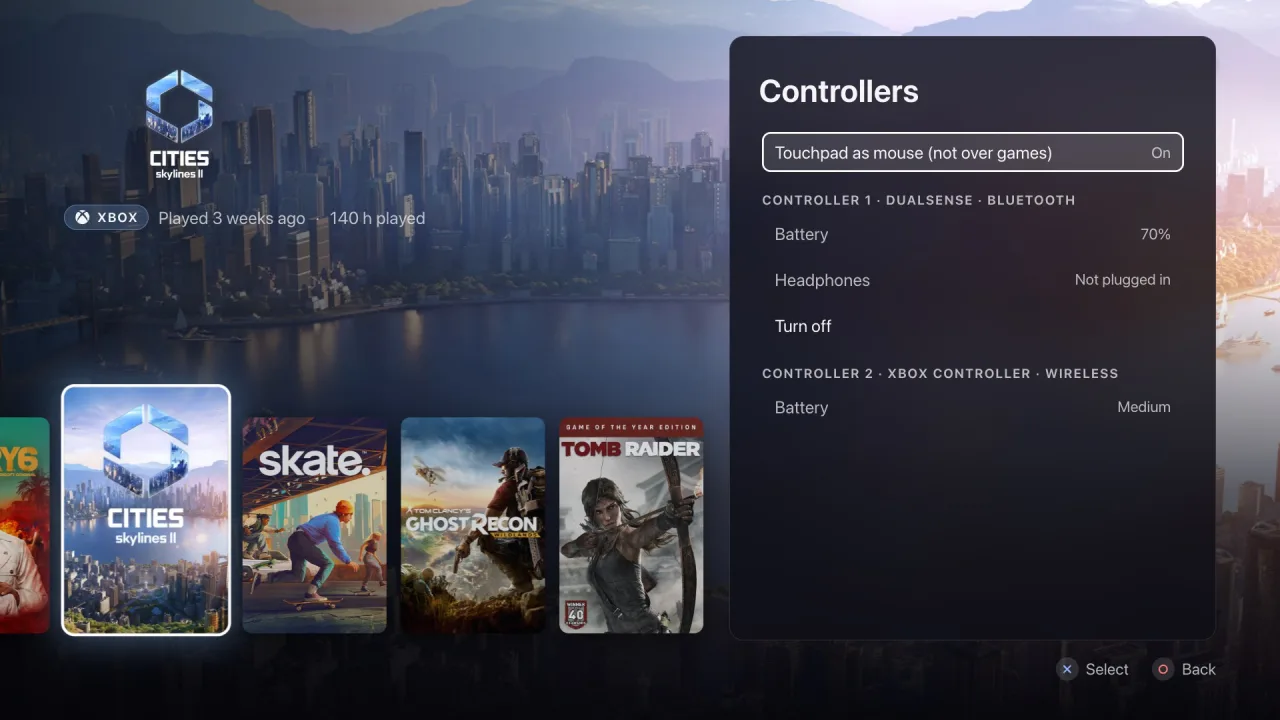
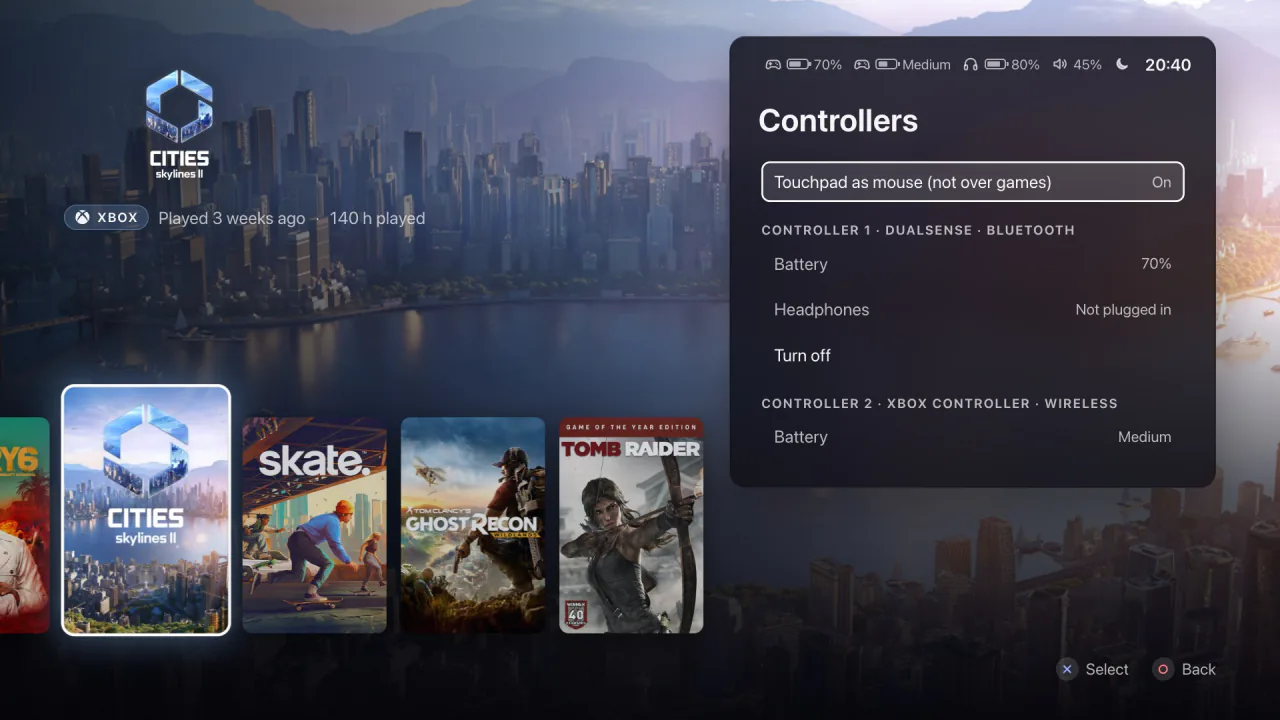
Screenshots and landing page for 0.3.0
The README's screenshots are taken again from the new home screen, with the
dock over a game and the screensaver's Gallery added. The landing page lists
the ten stores, and gains the game menu, the dock and the screensaver.

diff --git a/site/index.html b/site/index.html
@@ -4,7 +4,7 @@
   <meta charset="utf-8">
   <meta name="viewport" content="width=device-width, initial-scale=1">
   <title>Lamplit: a console-style home screen for Windows PCs on the TV</title>
-  <meta name="description" content="Lamplit is a free home screen for the gaming PC under your TV. Every installed game from Steam, Epic, GOG, the EA app, Ubisoft Connect, Rockstar and the Xbox app in one row, played with a DualSense, an Xbox controller or another pad.">
+  <meta name="description" content="Lamplit is a free home screen for the gaming PC under your TV. Every installed game from Steam, Epic, GOG, the EA app, Ubisoft Connect, Rockstar, Battle.net, the Amazon Games app, itch.io and the Xbox app in one row, played with a DualSense, an Xbox controller or another pad.">
   <meta name="theme-color" content="#07060B">
   <meta name="color-scheme" content="dark">
 
@@ -31,7 +31,8 @@
 </head>
 <body>
   <!-- Store logos: Simple Icons (CC0, simpleicons.org); Xbox from Material Design Icons (Apache 2.0,
-       pictogrammers.com), since Simple Icons no longer has it. -->
+       pictogrammers.com), since Simple Icons no longer has it. Neither has Amazon's, so the Amazon Games app has a
+       plain bag. -->
   <svg class="sprite" aria-hidden="true" focusable="false">
     <symbol id="store-steam" viewBox="0 0 24 24"><path d="M11.979 0C5.678 0 .511 4.86.022 11.037l6.432 2.658c.545-.371 1.203-.59 1.912-.59.063 0 .125.004.188.006l2.861-4.142V8.91c0-2.495 2.028-4.524 4.524-4.524 2.494 0 4.524 2.031 4.524 4.527s-2.03 4.525-4.524 4.525h-.105l-4.076 2.911c0 .052.004.105.004.159 0 1.875-1.515 3.396-3.39 3.396-1.635 0-3.016-1.173-3.331-2.727L.436 15.27C1.862 20.307 6.486 24 11.979 24c6.627 0 11.999-5.373 11.999-12S18.605 0 11.979 0zM7.54 18.21l-1.473-.61c.262.543.714.999 1.314 1.25 1.297.539 2.793-.076 3.332-1.375.263-.63.264-1.319.005-1.949s-.75-1.121-1.377-1.383c-.624-.26-1.29-.249-1.878-.03l1.523.63c.956.4 1.409 1.5 1.009 2.455-.397.957-1.497 1.41-2.454 1.012H7.54zm11.415-9.303c0-1.662-1.353-3.015-3.015-3.015-1.665 0-3.015 1.353-3.015 3.015 0 1.665 1.35 3.015 3.015 3.015 1.663 0 3.015-1.35 3.015-3.015zm-5.273-.005c0-1.252 1.013-2.266 2.265-2.266 1.249 0 2.266 1.014 2.266 2.266 0 1.251-1.017 2.265-2.266 2.265-1.253 0-2.265-1.014-2.265-2.265z"/></symbol>
     <symbol id="store-epic" viewBox="0 0 24 24"><path d="M3.537 0C2.165 0 1.66.506 1.66 1.879V18.44a4.262 4.262 0 00.02.433c.031.3.037.59.316.92.027.033.311.245.311.245.153.075.258.13.43.2l8.335 3.491c.433.199.614.276.928.27h.002c.314.006.495-.071.928-.27l8.335-3.492c.172-.07.277-.124.43-.2 0 0 .284-.211.311-.243.28-.33.285-.621.316-.92a4.261 4.261 0 00.02-.434V1.879c0-1.373-.506-1.88-1.878-1.88zm13.366 3.11h.68c1.138 0 1.688.553 1.688 1.696v1.88h-1.374v-1.8c0-.369-.17-.54-.523-.54h-.235c-.367 0-.537.17-.537.539v5.81c0 .369.17.54.537.54h.262c.353 0 .523-.171.523-.54V8.619h1.373v2.143c0 1.144-.562 1.71-1.7 1.71h-.694c-1.138 0-1.7-.566-1.7-1.71V4.82c0-1.144.562-1.709 1.7-1.709zm-12.186.08h3.114v1.274H6.117v2.603h1.648v1.275H6.117v2.774h1.74v1.275h-3.14zm3.816 0h2.198c1.138 0 1.7.564 1.7 1.708v2.445c0 1.144-.562 1.71-1.7 1.71h-.799v3.338h-1.4zm4.53 0h1.4v9.201h-1.4zm-3.13 1.235v3.392h.575c.354 0 .523-.171.523-.54V4.965c0-.368-.17-.54-.523-.54zm-3.74 10.147a1.708 1.708 0 01.591.108 1.745 1.745 0 01.49.299l-.452.546a1.247 1.247 0 00-.308-.195.91.91 0 00-.363-.068.658.658 0 00-.28.06.703.703 0 00-.224.163.783.783 0 00-.151.243.799.799 0 00-.056.299v.008a.852.852 0 00.056.31.7.7 0 00.157.245.736.736 0 00.238.16.774.774 0 00.303.058.79.79 0 00.445-.116v-.339h-.548v-.565H7.37v1.255a2.019 2.019 0 01-.524.307 1.789 1.789 0 01-.683.123 1.642 1.642 0 01-.602-.107 1.46 1.46 0 01-.478-.3 1.371 1.371 0 01-.318-.455 1.438 1.438 0 01-.115-.58v-.008a1.426 1.426 0 01.113-.57 1.449 1.449 0 01.312-.46 1.418 1.418 0 01.474-.309 1.58 1.58 0 01.598-.111 1.708 1.708 0 01.045 0zm11.963.008a2.006 2.006 0 01.612.094 1.61 1.61 0 01.507.277l-.386.546a1.562 1.562 0 00-.39-.205 1.178 1.178 0 00-.388-.07.347.347 0 00-.208.052.154.154 0 00-.07.127v.008a.158.158 0 00.022.084.198.198 0 00.076.066.831.831 0 00.147.06c.062.02.14.04.236.061a3.389 3.389 0 01.43.122 1.292 1.292 0 01.328.17.678.678 0 01.207.24.739.739 0 01.071.337v.008a.865.865 0 01-.081.382.82.82 0 01-.229.285 1.032 1.032 0 01-.353.18 1.606 1.606 0 01-.46.061 2.16 2.16 0 01-.71-.116 1.718 1.718 0 01-.593-.346l.43-.514c.277.223.578.335.9.335a.457.457 0 00.236-.05.157.157 0 00.082-.142v-.008a.15.15 0 00-.02-.077.204.204 0 00-.073-.066.753.753 0 00-.143-.062 2.45 2.45 0 00-.233-.062 5.036 5.036 0 01-.413-.113 1.26 1.26 0 01-.331-.16.72.72 0 01-.222-.243.73.73 0 01-.082-.36v-.008a.863.863 0 01.074-.359.794.794 0 01.214-.283 1.007 1.007 0 01.34-.185 1.423 1.423 0 01.448-.066 2.006 2.006 0 01.025 0zm-9.358.025h.742l1.183 2.81h-.825l-.203-.499H8.623l-.198.498h-.81zm2.197.02h.814l.663 1.08.663-1.08h.814v2.79h-.766v-1.602l-.711 1.091h-.016l-.707-1.083v1.593h-.754zm3.469 0h2.235v.658h-1.473v.422h1.334v.61h-1.334v.442h1.493v.658h-2.255zm-5.3.897l-.315.793h.624zm-1.145 5.19h8.014l-4.09 1.348z"/></symbol>
@@ -39,6 +40,8 @@
     <symbol id="store-ea" viewBox="0 0 24 24"><path d="M16.635 6.162l-5.928 9.377H4.24l1.508-2.3h4.024l1.474-2.335H2.264L.79 13.239h2.156L0 17.84h12.072l4.563-7.259 1.652 2.66h-1.401l-1.473 2.299h4.347l1.473 2.3H24zm-11.461.107L3.7 8.604l9.52-.035 1.474-2.3z"/></symbol>
     <symbol id="store-ubisoft" viewBox="0 0 24 24"><path d="M23.561 11.988C23.301-.304 6.954-4.89.656 6.634c.282.206.661.477.943.672a11.747 11.747 0 00-.976 3.067 11.885 11.885 0 00-.184 2.071C.439 18.818 5.621 24 12.005 24c6.385 0 11.556-5.17 11.556-11.556v-.455zm-20.27 2.06c-.152 1.246-.054 1.636-.054 1.788l-.282.098c-.108-.206-.37-.932-.488-1.908C2.163 10.308 4.7 6.96 8.57 6.33c3.544-.52 6.937 1.68 7.728 4.758l-.282.098c-.087-.087-.228-.336-.77-.878-4.281-4.281-11.002-2.32-11.956 3.74zm11.002 2.081a3.145 3.145 0 01-2.59 1.355 3.15 3.15 0 01-3.155-3.155 3.159 3.159 0 012.927-3.144c1.018-.043 1.972.51 2.416 1.398a2.58 2.58 0 01-.455 2.95c.293.205.575.4.856.595zm6.58.12c-1.669 3.782-5.106 5.766-8.77 5.712-7.034-.347-9.083-8.466-4.38-11.393l.207.206c-.076.108-.358.325-.791 1.182-.51 1.041-.672 2.081-.607 2.732.369 5.67 8.314 6.83 11.045 1.214C21.057 8.217 11.822.401 3.626 6.374l-.184-.184C5.599 2.808 9.816 1.3 13.837 2.309c6.147 1.55 9.453 7.956 7.035 13.94z"/></symbol>
     <symbol id="store-rockstar" viewBox="0 0 24 24"><path d="M5.971 6.816h3.241c1.469 0 2.741-.448 2.741-2.084 0-1.3-1.117-1.576-2.19-1.576H6.748l-.777 3.66Zm12.834 8.753h5.168l-4.664 3.228.755 5.087-4.041-3.07L10.599 24l2.536-5.392s-2.95-3.075-2.947-3.075c-.198-.262-.265-.936-.265-1.226 0-.367.024-.739.049-1.134.028-.451.058-.933.058-1.476 0-1.338-.59-2.038-2.036-2.038H5.283l-1.18 5.525H.026L3.269 0h7.672c2.852 0 5.027.702 5.027 3.936 0 2.276-1.12 3.894-3.592 4.233v.045c1.162.276 1.598 1.062 1.598 2.527 0 .585-.018 1.098-.034 1.581-.015.428-.03.834-.03 1.243 0 .525.137 1.382.48 1.968h.567l3.028-5.06.82 5.096Zm-1.233-2.948-2.187 3.654h-3.457l2.103 2.189-1.73 3.672 3.777-2.218 2.976 2.263-.553-3.731 3.093-2.139h-3.43l-.592-3.69Z"/></symbol>
+    <symbol id="store-battlenet" viewBox="0 0 24 24"><path d="M18.94 8.296C15.9 6.892 11.534 6 7.426 6.332c.206-1.36.714-2.308 1.548-2.508 1.148-.275 2.4.48 3.594 1.854.782.102 1.71.28 2.355.429C12.747 2.013 9.828-.282 7.607.565c-1.688.644-2.553 2.97-2.448 6.094-2.2.468-3.915 1.3-5.013 2.495-.056.065-.181.227-.137.305.034.058.146-.008.194-.04 1.274-.89 2.904-1.373 5.027-1.676.303 3.333 1.713 7.56 4.055 10.952-1.28.502-2.356.536-2.946-.087-.812-.856-.784-2.318-.19-4.04a26.764 26.764 0 0 1-.807-2.254c-2.459 3.934-2.986 7.61-1.143 9.11 1.402 1.14 3.847.725 6.502-.926 1.505 1.672 3.083 2.74 4.667 3.094.084.015.287.043.332-.034.034-.06-.08-.124-.131-.149-1.408-.657-2.64-1.828-3.964-3.515 2.735-1.929 5.691-5.263 7.457-8.988 1.076.86 1.64 1.773 1.398 2.595-.336 1.131-1.615 1.84-3.403 2.185a27.697 27.697 0 0 1-1.548 1.826c4.634.16 8.08-1.22 8.458-3.565.286-1.786-1.295-3.696-4.053-5.17.696-2.139.832-4.04.346-5.588-.029-.08-.106-.27-.196-.27-.068 0-.067.13-.063.187.135 1.547-.263 3.2-1.062 5.19zm-8.533 9.869c-1.96-3.145-3.09-6.849-3.082-10.594 3.702-.124 7.474.748 10.714 2.627-1.743 3.269-4.385 6.1-7.633 7.966h.001z"/></symbol>
+    <symbol id="store-itch" viewBox="0 0 24 24"><path d="M3.13 1.338C2.08 1.96.02 4.328 0 4.95v1.03c0 1.303 1.22 2.45 2.325 2.45 1.33 0 2.436-1.102 2.436-2.41 0 1.308 1.07 2.41 2.4 2.41 1.328 0 2.362-1.102 2.362-2.41 0 1.308 1.137 2.41 2.466 2.41h.024c1.33 0 2.466-1.102 2.466-2.41 0 1.308 1.034 2.41 2.363 2.41 1.33 0 2.4-1.102 2.4-2.41 0 1.308 1.106 2.41 2.435 2.41C22.78 8.43 24 7.282 24 5.98V4.95c-.02-.62-2.082-2.99-3.13-3.612-3.253-.114-5.508-.134-8.87-.133-3.362 0-7.945.053-8.87.133zm6.376 6.477a2.74 2.74 0 0 1-.468.602c-.5.49-1.19.795-1.947.795a2.786 2.786 0 0 1-1.95-.795c-.182-.178-.32-.37-.446-.59-.127.222-.303.412-.486.59a2.788 2.788 0 0 1-1.95.795c-.092 0-.187-.025-.264-.052-.107 1.113-.152 2.176-.168 2.95v.005l-.006 1.167c.02 2.334-.23 7.564 1.03 8.85 1.952.454 5.545.662 9.15.663 3.605 0 7.198-.21 9.15-.664 1.26-1.284 1.01-6.514 1.03-8.848l-.006-1.167v-.004c-.016-.775-.06-1.838-.168-2.95-.077.026-.172.052-.263.052a2.788 2.788 0 0 1-1.95-.795c-.184-.178-.36-.368-.486-.59-.127.22-.265.412-.447.59a2.786 2.786 0 0 1-1.95.794c-.76 0-1.446-.303-1.948-.793a2.74 2.74 0 0 1-.468-.602 2.738 2.738 0 0 1-.463.602 2.787 2.787 0 0 1-1.95.794h-.16a2.787 2.787 0 0 1-1.95-.793 2.738 2.738 0 0 1-.464-.602zm-2.004 2.59v.002c.795.002 1.5 0 2.373.953.687-.072 1.406-.108 2.125-.107.72 0 1.438.035 2.125.107.873-.953 1.578-.95 2.372-.953.376 0 1.876 0 2.92 2.934l1.123 4.028c.832 2.995-.266 3.068-1.636 3.07-2.03-.075-3.156-1.55-3.156-3.025-1.124.184-2.436.276-3.748.277-1.312 0-2.624-.093-3.748-.277 0 1.475-1.125 2.95-3.156 3.026-1.37-.004-2.468-.077-1.636-3.072l1.122-4.027c1.045-2.934 2.545-2.934 2.92-2.934zM12 12.714c-.002.002-2.14 1.964-2.523 2.662l1.4-.056v1.22c0 .056.56.033 1.123.007.562.026 1.124.05 1.124-.008v-1.22l1.4.055C14.138 14.677 12 12.713 12 12.713z"/></symbol>
     <symbol id="store-xbox" viewBox="0 0 24 24"><path d="M6.43,3.72C6.5,3.66 6.57,3.6 6.62,3.56C8.18,2.55 10,2 12,2C13.88,2 15.64,2.5 17.14,3.42C17.25,3.5 17.54,3.69 17.7,3.88C16.25,2.28 12,5.7 12,5.7C10.5,4.57 9.17,3.8 8.16,3.5C7.31,3.29 6.73,3.5 6.46,3.7M19.34,5.21C19.29,5.16 19.24,5.11 19.2,5.06C18.84,4.66 18.38,4.56 18,4.59C17.61,4.71 15.9,5.32 13.8,7.31C13.8,7.31 16.17,9.61 17.62,11.96C19.07,14.31 19.93,16.16 19.4,18.73C21,16.95 22,14.59 22,12C22,9.38 21,7 19.34,5.21M15.73,12.96C15.08,12.24 14.13,11.21 12.86,9.95C12.59,9.68 12.3,9.4 12,9.1C12,9.1 11.53,9.56 10.93,10.17C10.16,10.94 9.17,11.95 8.61,12.54C7.63,13.59 4.81,16.89 4.65,18.74C4.65,18.74 4,17.28 5.4,13.89C6.3,11.68 9,8.36 10.15,7.28C10.15,7.28 9.12,6.14 7.82,5.35L7.77,5.32C7.14,4.95 6.46,4.66 5.8,4.62C5.13,4.67 4.71,5.16 4.71,5.16C3.03,6.95 2,9.35 2,12A10,10 0 0,0 12,22C14.93,22 17.57,20.74 19.4,18.73C19.4,18.73 19.19,17.4 17.84,15.5C17.53,15.07 16.37,13.69 15.73,12.96Z"/></symbol>
   </svg>
   <a class="skip" href="#main">Skip to content</a>
@@ -65,7 +68,7 @@
         <div class="hero-copy">
           <img class="hero-icon" src="images/icon-3d-160.webp" srcset="images/icon-3d-160.webp 160w, images/icon-3d-320.webp 320w" sizes="96px" width="96" height="96" alt="">
           <h1 id="hero-title">Your games, from the couch.</h1>
-          <p class="lead">Lamplit is a free, console-style home screen for the gaming PC under your TV. It puts every installed game in one row, from seven stores, and starts each one from the sofa with a controller.</p>
+          <p class="lead">Lamplit is a free, console-style home screen for the gaming PC under your TV. It puts every installed game in one row, from ten stores, and starts each one from the sofa with a controller.</p>
           <div class="actions">
             <a class="btn btn-primary" href="https://github.com/YordiLorenzo/lamplit/releases/latest/download/Lamplit-setup.exe">
               <svg aria-hidden="true" viewBox="0 0 24 24" width="20" height="20"><path d="M12 4v11m0 0-4.5-4.5M12 15l4.5-4.5M5 19.5h14" fill="none" stroke="currentColor" stroke-width="2" stroke-linecap="round" stroke-linejoin="round"/></svg>
@@ -96,6 +99,8 @@
             <li><svg role="img" aria-label="EA app"><use href="#store-ea"/></svg></li>
             <li><svg role="img" aria-label="Ubisoft Connect"><use href="#store-ubisoft"/></svg></li>
             <li><svg role="img" aria-label="Rockstar Games"><use href="#store-rockstar"/></svg></li>
+            <li><svg role="img" aria-label="Battle.net"><use href="#store-battlenet"/></svg></li>
+            <li><svg role="img" aria-label="itch.io"><use href="#store-itch"/></svg></li>
             <li><svg role="img" aria-label="Xbox app"><use href="#store-xbox"/></svg></li>
           </ul>
         </div>
@@ -115,14 +120,22 @@
           <p class="eyebrow">Your library</p>
           <h3 id="library-title">Every game in one row</h3>
         </div>
-        <ul class="cards cards-4">
+        <ul class="cards cards-3">
           <li class="card">
             <h4>Nothing to set up</h4>
-            <p>Lamplit reads what Steam, the Epic Games Launcher, GOG, the EA app, Ubisoft Connect, the Rockstar Games Launcher and the Xbox app have installed, and finds games outside any store too. There is nothing to import, connect or sign in to.</p>
+            <p>Lamplit reads what Steam, the Epic Games Launcher, GOG, the EA app, Ubisoft Connect, the Rockstar Games Launcher, Battle.net, the Amazon Games app, itch.io and the Xbox app have installed, and finds games outside any store too. There is nothing to import, connect or sign in to.</p>
           </li>
           <li class="card">
-            <h4>Last played first</h4>
-            <p>The game you're in the middle of is the first cover. The rest follow by name.</p>
+            <h4>Favourites, then last played</h4>
+            <p>Your favourites come first, then the game you're in the middle of, then the rest by name. Hide what Lamplit found that isn't a game.</p>
+          </li>
+          <li class="card">
+            <h4>Find a game</h4>
+            <p>Square opens a search with an on-screen keyboard. "rdr" finds Red Dead Redemption 2 by its first letters. Show one store's games, or sort the row A to Z.</p>
+          </li>
+          <li class="card">
+            <h4>Play time</h4>
+            <p>Steam's own count for a Steam game, and for the others the time Lamplit sees the game running.</p>
           </li>
           <li class="card">
             <h4>Cover art from Steam</h4>
@@ -136,15 +149,38 @@
       </div>
     </section>
 
-    <section class="section feature" aria-labelledby="launch-title">
+    <section class="section feature" aria-labelledby="menu-title">
       <div class="wrap split">
+        <div class="split-copy">
+          <p class="eyebrow">A game's menu</p>
+          <h3 id="menu-title">Everything about a game, one press away</h3>
+          <p>Options lifts the game's cover toward you and blurs the rest of the screen. Beside it are the game's store, when you last played it and for how long, and its choices: Play, Favourite, Change art and Hide this game.</p>
+          <ul class="ticks">
+            <li>Change art when Steam matched the wrong game: pick from the covers Steam's store finds, edit the search, or show the game's name.</li>
+            <li>Add a game by hand: a program Lamplit passed over, or an exe found by browsing the PC's drives, all with the controller.</li>
+            <li>What can't be undone, such as Close game or Shut down, is held: a ring fills round the choice, and letting go early does nothing.</li>
+          </ul>
+        </div>
+        <figure class="shot">
+          <img src="images/details-960.webp"
+               srcset="images/details-640.webp 640w, images/details-960.webp 960w, images/details-1280.webp 1280w"
+               sizes="(min-width: 960px) 640px, calc(100vw - 32px)"
+               width="1920" height="1080" loading="lazy" decoding="async"
+               alt="A game's menu: Titanfall 2's cover lifted over the blurred home screen, and beside it Steam, played 2 days ago, 31 hours, with Play, Favourite, Change art and Hide this game">
+          <figcaption>A game's menu: its cover lifted, its details and choices beside it.</figcaption>
+        </figure>
+      </div>
+    </section>
+
+    <section class="section feature" aria-labelledby="launch-title">
+      <div class="wrap split reverse">
         <div class="split-copy">
           <p class="eyebrow">Launching</p>
           <h3 id="launch-title">Press Cross and play</h3>
           <p>A game can need more than one store app: some Steam games also need the EA app or Ubisoft Connect. Lamplit starts each one, waits for it to sign in and shows Steam's update progress. If a store app needs you to sign in, Lamplit says so and opens it for you.</p>
           <ul class="ticks">
-            <li>Lamplit steps aside while you play and is back on screen when the game closes.</li>
-            <li>Hold the PS button, or View and Menu on an Xbox controller, to bring Lamplit over a running game.</li>
+            <li>No desktop in between: the starting screen stays in front until the game covers the screen, and Lamplit waits behind the game while you play.</li>
+            <li>A window that may need you, such as a launcher's Play button, gets a line on the starting screen.</li>
             <li>The PC and the TV stay awake while a store app starts or Steam downloads an update.</li>
           </ul>
         </div>
@@ -159,8 +195,54 @@
       </div>
     </section>
 
-    <section class="section feature" aria-labelledby="sound-title">
+    <section class="section feature" aria-labelledby="dock-title">
+      <div class="wrap split">
+        <div class="split-copy">
+          <p class="eyebrow">While you play</p>
+          <h3 id="dock-title">The dock, over your game</h3>
+          <p>Hold PS, or View and Menu on an Xbox controller, and a small dock rises from the bottom of the screen, over the game. It holds the volume, the sound output, quiet mode, NVIDIA's stats, Home and Close game, with the game's cover, your play time, the batteries and the time, in the colours of the game's art.</p>
+          <ul class="ticks">
+            <li>Close game is held, and a game that stops responding gets Force close.</li>
+            <li>The folded dock shows for a moment when the headset turns on, a controller connects or a battery runs low.</li>
+            <li>It is Lamplit's own window above the game: nothing is drawn inside the game. On Windows 11 22H2 or later it rests on Windows' own glass.</li>
+          </ul>
+        </div>
+        <figure class="shot">
+          <img src="images/dock-960.webp"
+               srcset="images/dock-640.webp 640w, images/dock-960.webp 960w, images/dock-1280.webp 1280w"
+               sizes="(min-width: 960px) 640px, calc(100vw - 32px)"
+               width="1920" height="1080" loading="lazy" decoding="async"
+               alt="The in-game dock over Cyberpunk 2077: the game's cover and play time, the volume, batteries and time, and Resume, sound output, quiet mode, stats, Home and Close game">
+          <figcaption>The dock: what you reach for mid-game, without leaving it.</figcaption>
+        </figure>
+      </div>
+    </section>
+
+    <section class="section feature" aria-labelledby="saver-title">
       <div class="wrap split reverse">
+        <div class="split-copy">
+          <p class="eyebrow">Screensaver</p>
+          <h3 id="saver-title">Art from your games while nobody plays</h3>
+          <p>After a few minutes without a press, generative art covers the home screen, so a still picture can't mark an OLED TV. Seven scenes, drawn live and coloured from your games' art: your covers in a dark gallery, hero art coming apart into points of light, dunes, the sea, ink, a nebula and an aurora.</p>
+          <ul class="ticks">
+            <li>The first press only ends it, and never starts a game.</li>
+            <li>Its brightness is held down, and after an hour it fades to black.</li>
+            <li>Settings sets the delay: off, or 2 to 20 minutes.</li>
+          </ul>
+        </div>
+        <figure class="shot">
+          <img src="images/screensaver-960.webp"
+               srcset="images/screensaver-640.webp 640w, images/screensaver-960.webp 960w, images/screensaver-1280.webp 1280w"
+               sizes="(min-width: 960px) 640px, calc(100vw - 32px)"
+               width="1920" height="1080" loading="lazy" decoding="async"
+               alt="The screensaver's Gallery scene: Far Cry 6, EA SPORTS FC 26, Red Dead Redemption 2 and Titanfall 2 covers in a dark room, reflected on a glossy floor">
+          <figcaption>The screensaver: your covers in a dark gallery, one of seven scenes.</figcaption>
+        </figure>
+      </div>
+    </section>
+
+    <section class="section feature" aria-labelledby="sound-title">
+      <div class="wrap split">
         <div class="split-copy">
           <p class="eyebrow">Sound and accessories</p>
           <h3 id="sound-title">Sound settings from the sofa</h3>
@@ -182,7 +264,7 @@
     </section>
 
     <section class="section feature" aria-labelledby="quiet-title">
-      <div class="wrap split">
+      <div class="wrap split reverse">
         <div class="split-copy">
           <p class="eyebrow">Quiet mode</p>
           <h3 id="quiet-title">No pop-ups over your game</h3>
@@ -197,14 +279,14 @@
                srcset="images/settings-640.webp 640w, images/settings-960.webp 960w, images/settings-1280.webp 1280w"
                sizes="(min-width: 960px) 640px, calc(100vw - 32px)"
                width="1920" height="1080" loading="lazy" decoding="async"
-               alt="The Settings panel: Sound, Headset, Controllers, Overlay and pop-ups, Stores and System, each with a one-line summary">
+               alt="The Settings panel under the batteries, volume and time: Sound, Headset, Controllers, Overlay and pop-ups, Stores, Screensaver, System, Add a game and Power, each with a one-line summary">
           <figcaption>Settings: each section with a one-line summary.</figcaption>
         </figure>
       </div>
     </section>
 
     <section class="section feature" aria-labelledby="controller-title">
-      <div class="wrap split reverse">
+      <div class="wrap split">
         <div class="split-copy">
           <p class="eyebrow">Controller</p>
           <h3 id="controller-title">Navigate with your controller</h3>
@@ -220,8 +302,8 @@
                srcset="images/controllers-640.webp 640w, images/controllers-960.webp 960w, images/controllers-1280.webp 1280w"
                sizes="(min-width: 960px) 640px, calc(100vw - 32px)"
                width="1920" height="1080" loading="lazy" decoding="async"
-               alt="The Controllers section: touchpad as mouse, and a Bluetooth controller's battery, headphones and Turn off">
-          <figcaption>Controllers: battery, headphones, and Turn off.</figcaption>
+               alt="The Controllers section: touchpad as mouse, a Bluetooth DualSense's battery, headphones and Turn off, and a wireless Xbox controller's battery">
+          <figcaption>Controllers: every controller, with its battery.</figcaption>
         </figure>
       </div>
     </section>
@@ -242,10 +324,12 @@
               <li><svg aria-hidden="true"><use href="#store-ea"/></svg>EA app</li>
               <li><svg aria-hidden="true"><use href="#store-ubisoft"/></svg>Ubisoft Connect</li>
               <li><svg aria-hidden="true"><use href="#store-rockstar"/></svg>Rockstar Games Launcher</li>
+              <li><svg aria-hidden="true"><use href="#store-battlenet"/></svg>Battle.net</li>
+              <li><svg aria-hidden="true" viewBox="0 0 24 24"><path d="M5.5 8h13l-1 11.5c-.07.85-.78 1.5-1.63 1.5H8.13c-.85 0-1.56-.65-1.63-1.5zM9 10V6.5a3 3 0 0 1 6 0V10" fill="none" stroke="currentColor" stroke-width="1.6" stroke-linecap="round" stroke-linejoin="round"/></svg>Amazon Games app</li>
+              <li><svg aria-hidden="true"><use href="#store-itch"/></svg>itch.io (the itch app)</li>
               <li><svg aria-hidden="true"><use href="#store-xbox"/></svg>Xbox app, including PC Game Pass</li>
               <li><svg aria-hidden="true" viewBox="0 0 24 24"><path d="M3.75 7.5c0-.83.67-1.5 1.5-1.5h4.1l2 2h7.4c.83 0 1.5.67 1.5 1.5v8c0 .83-.67 1.5-1.5 1.5h-13.5c-.83 0-1.5-.67-1.5-1.5z" fill="none" stroke="currentColor" stroke-width="1.6" stroke-linejoin="round"/></svg>Games outside any store</li>
             </ul>
-            <p class="note"><strong>Not yet:</strong> Battle.net, the Amazon Games app and itch.io. Their games can still show up as games outside any store.</p>
           </div>
           <div class="card">
             <h3>Controllers</h3>
@@ -270,6 +354,7 @@
             <ul class="dots">
               <li>Windows 10 or Windows 11, 64-bit</li>
               <li>Microsoft Edge WebView2 Runtime: part of Windows 11, and the installer downloads it when it is missing</li>
+              <li>For the dock over a game: borderless or windowed full screen in the game's settings</li>
             </ul>
           </div>
         </div>
@@ -329,7 +414,7 @@
           </details>
           <details>
             <summary>Is it safe to use with anti-cheat?</summary>
-            <p>Lamplit doesn't inject code into games, hook them or draw over them. To know when a game starts and closes, it reads the list of running processes and the folder each one runs from, as other launchers do. If a game's anti-cheat ever objects, please <a class="text-link" href="https://github.com/YordiLorenzo/lamplit/issues">open an issue</a>.</p>
+            <p>Lamplit doesn't inject code into games, hook them or draw inside them. The in-game dock is a separate window that Windows shows above the game. To know when a game starts and closes, Lamplit reads the list of running processes and the folder each one runs from, as other launchers do. If a game's anti-cheat ever objects, please <a class="text-link" href="https://github.com/YordiLorenzo/lamplit/issues">open an issue</a>.</p>
           </details>
           <details>
             <summary>Does it send anything online?</summary>
@@ -390,7 +475,7 @@
         </ul>
       </div>
       <p>Lamplit is free to use, change and share for any noncommercial purpose, under the <a href="https://github.com/YordiLorenzo/lamplit/blob/main/LICENSE">PolyForm Noncommercial License 1.0.0</a>. Selling it, or bundling it into something you sell, isn't allowed. For any commercial use, ask first in an issue.</p>
-      <p>Lamplit is not affiliated with or endorsed by Sony, Valve, Microsoft, Logitech, NVIDIA, Epic Games, Electronic Arts, Ubisoft, Rockstar Games or GOG. Their names, logos and products are trademarks of their owners and appear here only to say what Lamplit works with. Store logos: <a class="text-link" href="https://simpleicons.org">Simple Icons</a> (CC0) and <a class="text-link" href="https://pictogrammers.com/library/mdi/">Material Design Icons</a> (Apache License 2.0). Game art in the screenshots belongs to its publishers.</p>
+      <p>Lamplit is not affiliated with or endorsed by Sony, Valve, Microsoft, Logitech, NVIDIA, Epic Games, Electronic Arts, Ubisoft, Rockstar Games, GOG, Blizzard Entertainment, Amazon or itch.io. Their names, logos and products are trademarks of their owners and appear here only to say what Lamplit works with. Store logos: <a class="text-link" href="https://simpleicons.org">Simple Icons</a> (CC0) and <a class="text-link" href="https://pictogrammers.com/library/mdi/">Material Design Icons</a> (Apache License 2.0). Game art in the screenshots belongs to its publishers.</p>
       <p>Headings are set in Outfit, under the <a href="fonts/OFL.txt">SIL Open Font License</a>.</p>
     </div>
   </footer>

diff --git a/site/style.css b/site/style.css
@@ -375,6 +375,8 @@ main { padding-bottom: var(--section); }
 
 @media (min-width: 600px) { .cards-4 { grid-template-columns: repeat(2, 1fr); } }
 @media (min-width: 1100px) { .cards-4 { grid-template-columns: repeat(4, 1fr); } }
+@media (min-width: 600px) { .cards-3 { grid-template-columns: repeat(2, 1fr); } }
+@media (min-width: 1100px) { .cards-3 { grid-template-columns: repeat(3, 1fr); } }
 
 .card {
   padding: 24px;

diff --git a/README.md b/README.md
@@ -22,8 +22,8 @@ while you play. When the game closes, Lamplit is back on screen.
 
 <table>
   <tr>
-    <td width="50%"><img src="docs/images/launch.jpg" alt="The starting screen: Lamplit asks to sign in to the store app a game needs, with buttons to open it, try anyway or cancel"><br><sub>Starting a game: each store app it needs, and what it needs from you.</sub></td>
-    <td width="50%"><img src="docs/images/settings.jpg" alt="The Settings panel: Sound, Headset, Controllers, Overlay and pop-ups, Stores, System and Power, each with a one-line summary"><br><sub>Settings: each section with a one-line summary.</sub></td>
+    <td width="50%"><img src="docs/images/launch.jpg" alt="The starting screen: Lamplit checks that Steam and the EA app are signed in and up to date, then starts Titanfall 2"><br><sub>Starting a game: each store app it needs, and what it needs from you.</sub></td>
+    <td width="50%"><img src="docs/images/settings.jpg" alt="The Settings panel under the batteries, volume and time: Sound, Headset, Controllers, Overlay and pop-ups, Stores, Screensaver, System, Add a game and Power, each with a one-line summary"><br><sub>Settings: each section with a one-line summary.</sub></td>
   </tr>
   <tr>
     <td width="50%"><img src="docs/images/sound.jpg" alt="The Sound section: output and microphone devices, volume, mute and the sound-follows switch"><br><sub>Sound: output, microphone and volume, from the sofa.</sub></td>
@@ -31,7 +31,11 @@ while you play. When the game closes, Lamplit is back on screen.
   </tr>
   <tr>
     <td width="50%"><img src="docs/images/find.jpg" alt="Find a game: an on-screen keyboard with rdr typed, store and sort choices, and the row narrowed to Red Dead Redemption 2"><br><sub>Find a game: "rdr" finds Red Dead Redemption 2.</sub></td>
-    <td width="50%"><img src="docs/images/details.jpg" alt="A game's menu: its cover lifted over the blurred home screen, and beside it the store, last played, play time and folder, with Play, Add to favourites, Change art and Hide this game"><br><sub>A game's menu: its cover lifted, its details and choices beside it.</sub></td>
+    <td width="50%"><img src="docs/images/details.jpg" alt="A game's menu: its cover lifted over the blurred home screen, and beside it the store, last played, play time and folder, with Play, Favourite, Change art and Hide this game"><br><sub>A game's menu: its cover lifted, its details and choices beside it.</sub></td>
+  </tr>
+  <tr>
+    <td width="50%"><img src="docs/images/dock.jpg" alt="The in-game dock over Cyberpunk 2077: the game's cover and play time, the volume, batteries and time, and Resume, TV, Quiet, Stats, Home and Close game"><br><sub>The in-game dock: hold PS over a game.</sub></td>
+    <td width="50%"><img src="docs/images/screensaver.jpg" alt="The screensaver's Gallery scene: Far Cry 6, EA SPORTS FC 26, Red Dead Redemption 2 and Titanfall 2 covers in a dark room, reflected on a glossy floor"><br><sub>The screensaver: your covers in a dark gallery.</sub></td>
   </tr>
 </table>
 
